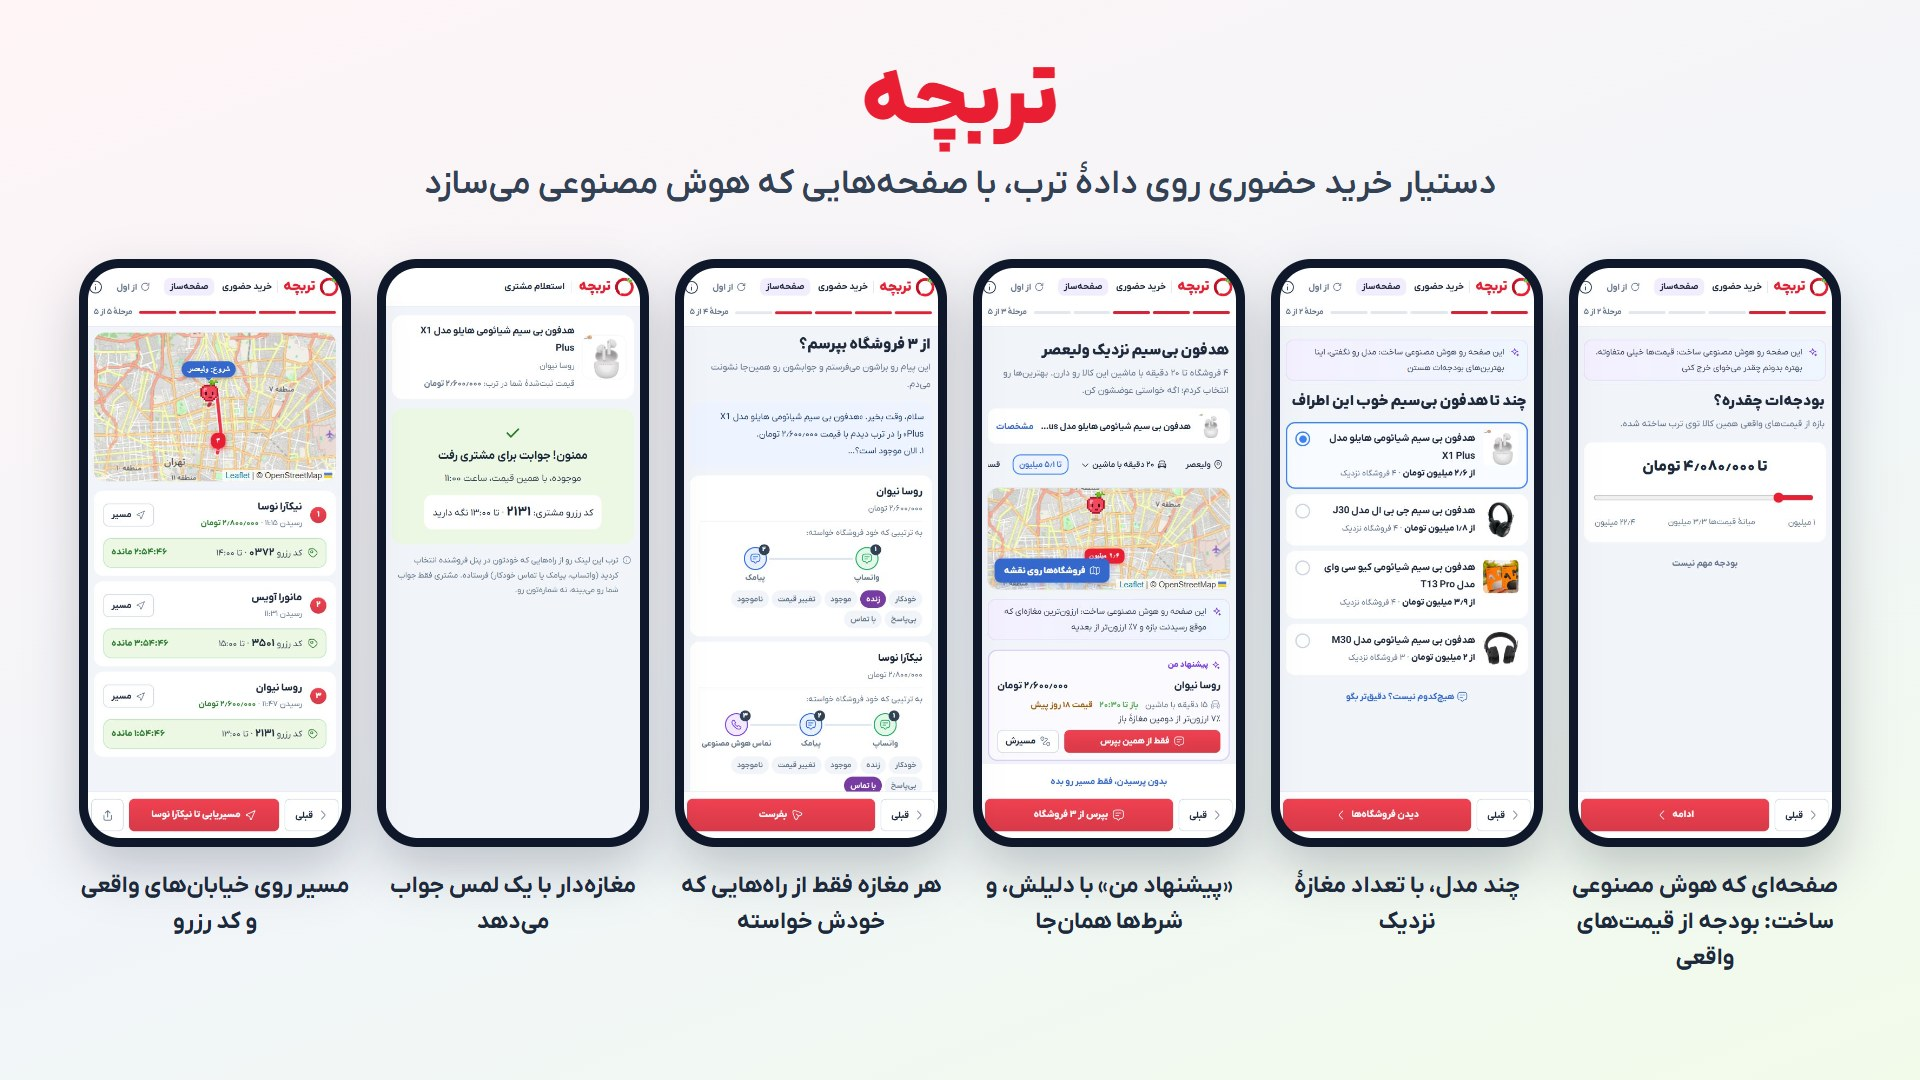
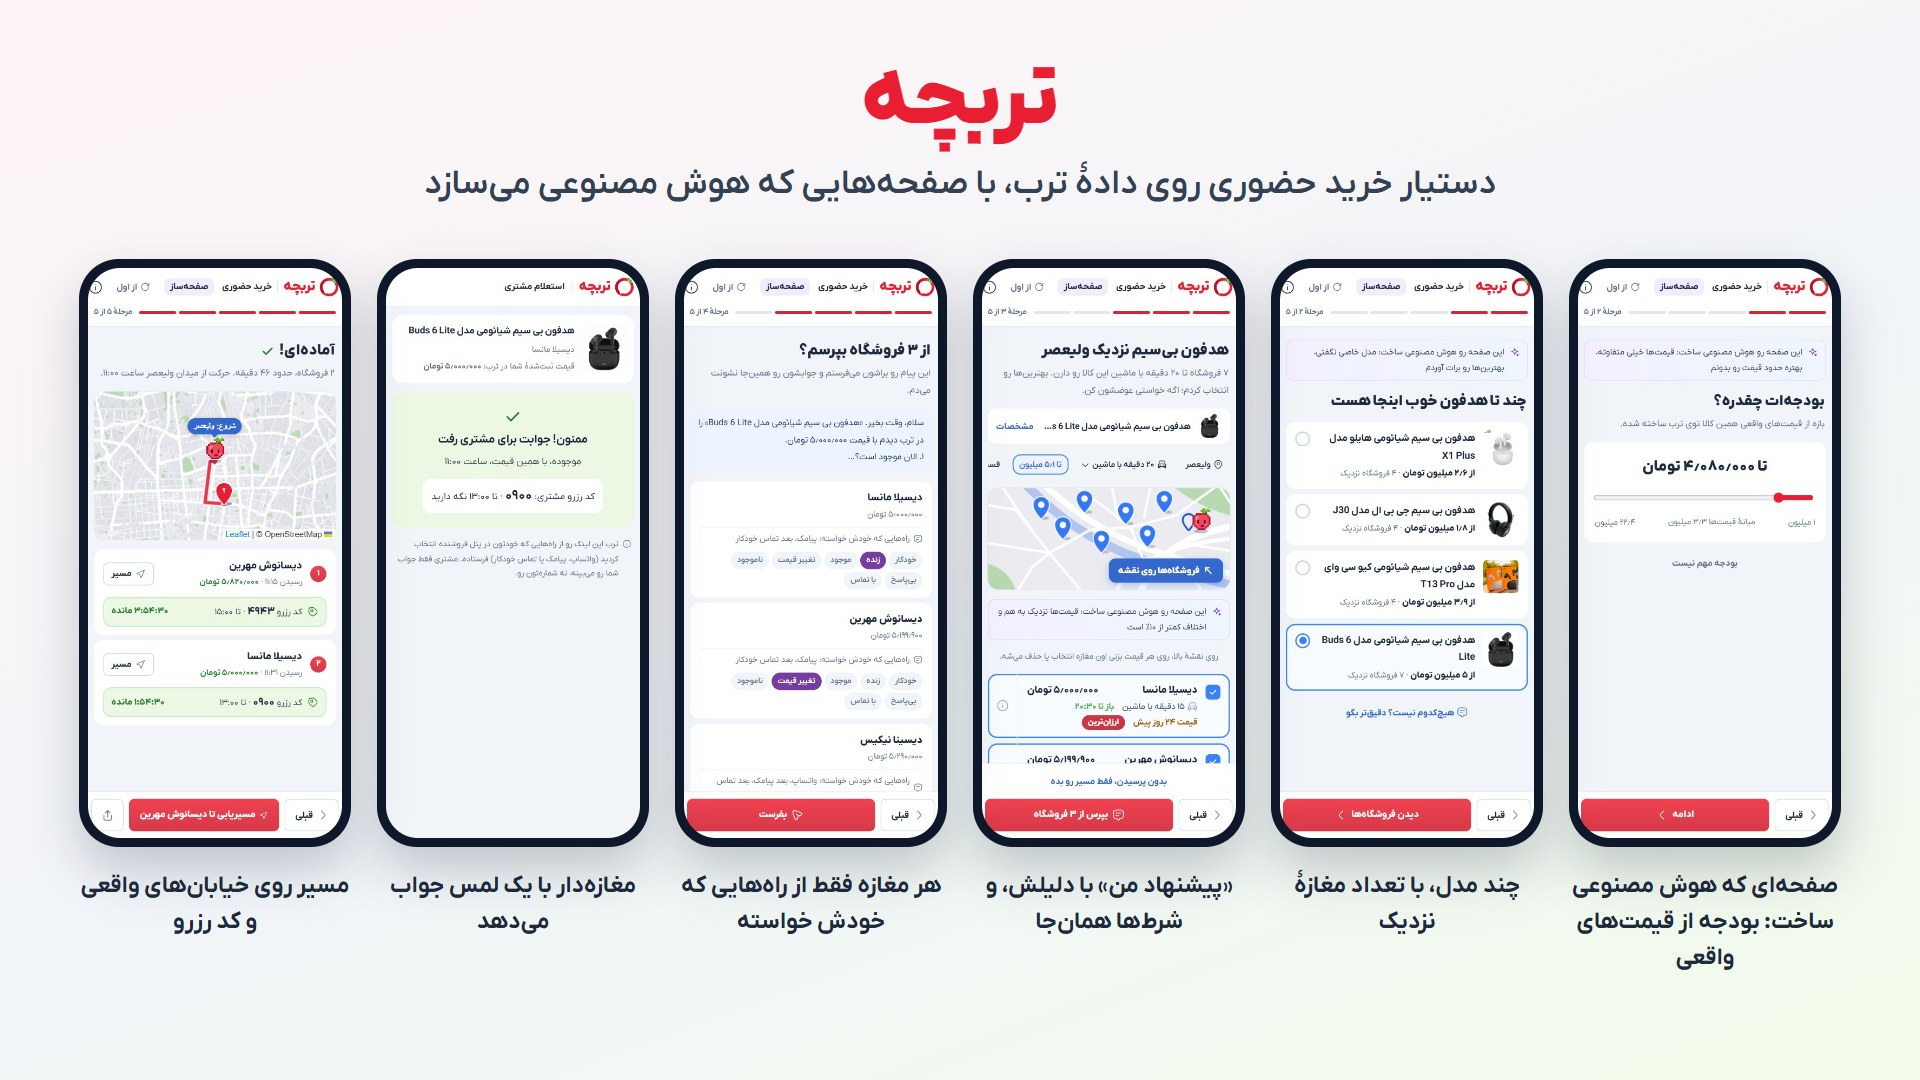
ویدیوی نهایی (۵:۲۶): نقشهٔ تربمانند و سه صحنهٔ تماس، واتساپ و پیامک
- صحنهٔ فروشگاهها با نوارِ نقشهٔ تصویری و نقشهٔ واقعی به رنگهای ترب
- بعد از «بفرست» سه صحنه پشتِ هم؛ صدای تماسِ هوش مصنوعی و جوابِ مغازهدار درست در لحظهٔ برداشتنِ گوشی در ویدیو مینشیند
- مقدمهٔ صحنهها کمی بلندتر تا جملهٔ راوی روی تماس نیفتد
- README: نقشهٔ تربمانند و سه صحنه

diff --git a/frontend/src/components/wizard/ReachShow.tsx b/frontend/src/components/wizard/ReachShow.tsx
@@ -11,7 +11,7 @@ import { Icon } from "../../icons";
 type Way = "call" | "whatsapp" | "sms";
 const NAME: Record<Way, string> = { call: "تماس هوش مصنوعی", whatsapp: "واتساپ", sms: "پیامک" };
 const ICON: Record<Way, string> = { call: "phone", whatsapp: "chat", sms: "send" };
-const LEN: Record<Way | "intro", number> = { intro: 5.2, call: 21, whatsapp: 7, sms: 7 };
+const LEN: Record<Way | "intro", number> = { intro: 6.8, call: 21, whatsapp: 7, sms: 7 };
 const RING = 1.4; // the phone rings this long before the shopkeeper picks up
 const AI_SECS = 16.0; // the call's own recording, /reach/call-ai.mp3
 const SELLER_AT = RING + AI_SECS + 0.35;

diff --git a/README.md b/README.md
@@ -81,7 +81,7 @@
 | نیاز (از ویدیوی چالش) | راهحل در تربچه |
 |---|---|
 | کاربر مدل مناسب را نمیداند | صفحهساز اول جستجو میکند و صفحهٔ بعد را از دادهٔ واقعی میسازد: گزینههای برند و نوع کاربری، اسلایدر بودجه از قیمتهای واقعی همان کالا، یا مقایسهٔ کوتاه که فقط سطرهای متفاوت را دارد و اول همان چیزی را میآورد که کاربر گفته (مثلاً دوربین). بعد ۲ تا ۴ کالا با تعداد فروشگاه نزدیک. |
-| فروشگاههای نزدیک | اول میپرسد چطور میروید (پیاده، ماشین شخصی، مترو و اتوبوس) و محدوده را با **زمان رسیدن** میگیرد («تا ۲۰ دقیقه»)، نه کیلومتر (کیلومتر در تنظیمات هست). زمان ماشین به ساعت روز و طول مسیر بستگی دارد و برای مقصد داخل طرح ترافیک هشدار میدهد. محلههای آماده یا GPS. بالای فهرست همیشه یک نقشه هست که هر مغازه را فقط با قیمتش نشان میدهد (برچسبهایی که روی هم میافتند تا زوم نزدیکتر صبر میکنند) و خود شما یک تربچهٔ پیکسلی هستید که سر جایتان بالا و پایین میپرد. |
+| فروشگاههای نزدیک | اول میپرسد چطور میروید (پیاده، ماشین شخصی، مترو و اتوبوس) و محدوده را با **زمان رسیدن** میگیرد («تا ۲۰ دقیقه»)، نه کیلومتر (کیلومتر در تنظیمات هست). زمان ماشین به ساعت روز و طول مسیر بستگی دارد و برای مقصد داخل طرح ترافیک هشدار میدهد. محلههای آماده یا GPS. بالای فهرست همیشه یک نوار نقشه مثل نقشهٔ خود ترب هست (زمین طوسی ملایم، خیابان سفید، پین قطرهای آبی برای نزدیکترین فروشگاهها) و خود شما یک تربچهٔ پیکسلی هستید که سر جایتان بالا و پایین میپرد؛ «فروشگاهها روی نقشه» نقشهٔ واقعی را باز میکند که کاشیهای OpenStreetMap در خود مرورگر به همان رنگهای ترب درمیآیند و هر مغازه پینی با قیمتش دارد. |
 | مقایسهٔ قیمت، فاصله، ساعت کاری | «هزینهٔ کل» هر گزینه = قیمت + ارزش زمان رفتوآمد (هر دقیقه ۸٬۰۰۰ تومان) + جریمهٔ عدم قطعیت (ساعت نامعلوم، قیمت قدیمی). فروشگاه دورتر فقط وقتی بالاتر میآید که اختلاف قیمتش زمان اضافه را بیارزد، و دلیلش روی کارت نوشته میشود. سه حالت مرتبسازی. |
 | قیمت ثبتشده قدیمی است | روی ردیف هر فروشگاه «قیمت N روز پیش» (قیمتهای قدیمی نارنجی)، و در جزئیات برچسب تازگی (اخیر / ممکن است تغییر کرده باشد / قدیمی) با تاریخ شمسی آخرین تغییر؛ «موجودی تأیید نشده» تا وقتی استعلام نشده؛ قیمت تأییدشده همیشه جدا نمایش داده میشود. |
 | فروشنده جواب نمیدهد یا مغازه بسته است | برای هر فروشگاه بسته «جایگزین باز» نزدیک همان فروشگاه (حتی در همان پاساژ)؛ بعد از استعلام، جایگزینهای آماده برای فروشگاههای ناموفق، کالای مشابه نزدیک، و فروشگاههایی که «شاید داشته باشند». |
@@ -92,7 +92,7 @@
 | مسیر با مترو و اتوبوس | مسیر شماتیک: پیاده تا ایستگاه، خط مترو و تعداد ایستگاه، تعویض خط، و تاکسی یا اتوبوس تا فروشگاه (ایستگاهها از OpenStreetMap). |
 | «حالا که تا اونجا میرم…» | «مسیر گردش و خرید»: یک دور پیادهٔ کوتاه در اطراف همان فروشگاه، از کنار کالاهای مرتبط (دستههایی که فروشگاههای همین کالا معمولاً دارند) که قیمتشان زیر قیمت معمول همان کالا در ترب است. |
 | زمان و شرایط مراجعه | انتخاب «همین الان / امروز عصر / فردا صبح / فردا عصر»؛ هشدار «تا برسید بسته میشود»، پنجشنبهها و جمعهها، ساعت نامعلوم. |
-| تماس با مغازه از راهی که خودش میخواهد | هر مغازهدار از قبل (در محصول واقعی در پنل فروشندهٔ ترب) گفته با کدام راهها از او بپرسند: یک، دو یا هر سه راهِ واتساپ، پیامک و تماس خودکار، به ترتیبی که خودش خواسته؛ دستیار فقط از همانها میپرسد. برای تست واقعی: واتساپ، بعد از ۲۰ ثانیه پیامک، بعد از ۲۰ ثانیهٔ دیگر تماس خودکار که میگوید لینک جواب فرستاده شد. هر وقت مغازهدار لینک را بزند، مرحلههای بعد لغو میشوند؛ راهی که نرود (شماره واتساپ ندارد، سرویس قطع است) روی صفحه گفته میشود و راه بعدی فوراً میرود. جلوی هر مغازه راههایش به همان ترتیب با انیمیشن دیده میشود: راهِ در حال امتحان روشن و متحرک، بیجواب کمرنگ، راهِ جواب سبز. وقتی نوبت تماس میرسد کارتِ «هوش مصنوعی داره زنگ میزنه» با موج صدا، زمان تماس و سؤالهای تماس خطبهخط باز میشود. |
+| تماس با مغازه از راهی که خودش میخواهد | هر مغازهدار از قبل (در محصول واقعی در پنل فروشندهٔ ترب) گفته با کدام راهها از او بپرسند: یک، دو یا هر سه راهِ واتساپ، پیامک و تماس خودکار، به ترتیبی که خودش خواسته؛ دستیار فقط از همانها میپرسد. برای تست واقعی: واتساپ، بعد از ۲۰ ثانیه پیامک، بعد از ۲۰ ثانیهٔ دیگر تماس خودکار که میگوید لینک جواب فرستاده شد. هر وقت مغازهدار لینک را بزند، مرحلههای بعد لغو میشوند؛ راهی که نرود (شماره واتساپ ندارد، سرویس قطع است) روی صفحه گفته میشود و راه بعدی فوراً میرود. بعد از «بفرست» سه انیمیشن کوتاه نشان میدهد مغازهدار چطور خبردار میشود: تربچهٔ هدستبهسر (هوش مصنوعی ترب) به ماسکات مغازهدار زنگ میزند و متن واقعی تماس خودکار پخش میشود (با صدای جدا از راوی)، پیام واتساپ و جوابش، و پیامک از گوشی تربچه و جوابش. کاربر واقعی فقط راه اول همان مغازه را میبیند و دمو هر سه را پشت هم؛ ماسکاتها با GPT Image ساخته شدهاند. |
 | جواب مغازهدار بد فهمیده نشود | جواب تایپ نمیشود: صفحهٔ یکلمسی (`/r/<کد>`) با «موجوده، با همین قیمت»، «قیمتش عوض شده» (و عدد) یا «نداریم»، بهعلاوهٔ «براش نگه میداری؟ ۱ ساعت / ۲ ساعت / نه». شمارهٔ مشتری به مغازهدار نشان داده نمیشود. |
 | رسیدم و مغازه نگه نداشته بود | **کد رزرو** ۴ رقمی که مغازهدار هم روی صفحهٔ خودش میبیند، با شمارش معکوس ثانیهای در برنامهٔ مراجعه؛ اگر رزرو پیش از رسیدن تمام شود، قرمز میشود و هشدار میدهد. |
 | منتظر جواب ماندن روی صفحه | استعلام مثل یک گفتوگو: «۲ از ۳ فروشگاه جواب دادن»، برای هر مغازه راههای امتحانشده و حباب جواب. اگر کاربر در برنامهٔ دیگری باشد، با رسیدن جواب گوشی میلرزد، اعلان میآید و عنوان تب «(۱) جواب رسید» میشود. |
